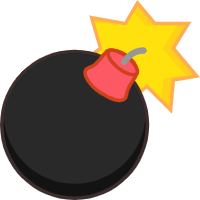
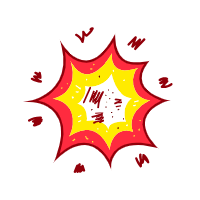
更新图标

diff --git a/index.html b/index.html
@@ -114,6 +114,16 @@
             color: #ffd700;
             margin-bottom: 10px;
             font-size: 24px;
+            display: flex;
+            align-items: center;
+            justify-content: center;
+            gap: 10px;
+        }
+
+        #link-modal .modal-content h2 img {
+            width: 28px;
+            height: 28px;
+            object-fit: contain;
         }
 
         #link-modal .modal-content p {
@@ -201,8 +211,15 @@
         }
 
         #gameover-modal .gameover-content .boom-icon {
-            font-size: 64px;
             margin-bottom: 16px;
+        }
+
+        #gameover-modal .gameover-content .boom-icon img {
+            width: 64px;
+            height: 64px;
+            object-fit: contain;
+            display: block;
+            margin: 0 auto;
         }
 
         #gameover-modal .gameover-content h2 {
@@ -263,7 +280,7 @@
     </div>
     <div id="gameover-modal">
         <div class="gameover-content">
-            <div class="boom-icon">💥</div>
+            <div class="boom-icon"><img src="icon/boom.png" alt="爆炸图标" width="256" height="256"></div>
             <h2>游戏结束!</h2>
             <p>你抓到了炸弹...</p>
             <div class="final-score">最终得分: <span id="gameover-score">0</span></div>
@@ -281,11 +298,11 @@
 
         // 可抓取的物品 - 每个物品对应一个链接
         const LINK_ITEMS = [
-            { type: 'GitHub', label: 'GitHub', url: 'https://github.com/Zebra1111', iconSrc: 'icon/github.png', size: 50, value: 300, desc: '我的 GitHub 主页' },
+            { type: 'GitHub', label: 'GitHub', url: 'https://github.com/Zebra1111', iconSrc: 'icon/github.png', size: 40, value: 300, desc: '我的 GitHub 主页' },
             { type: 'Blog', label: '博客', url: 'blog.html', iconSrc: 'icon/blog.png', size: 40, value: 200, desc: '我的技术博客' },
-            { type: 'Project', label: '项目展示', url: 'https://github.com/Zebra1111?tab=repositories', iconSrc: 'icon/project.png', size: 35, value: 500, desc: '查看我的开源项目' },
-            { type: 'LeetCode', label: 'LeetCode', url: 'https://leetcode.cn/progress/', iconSrc: 'icon/leetcode.png', size: 30, value: 400, desc: '力扣刷题记录' },
-            { type: 'Acwing', label: 'Acwing', url: 'https://www.acwing.com/user/myspace/index/144768/', iconSrc: 'icon/acwing.png', size: 30, value: 400, desc: 'Acwing 刷题空间' },
+            { type: 'Project', label: '项目展示', url: 'https://github.com/Zebra1111?tab=repositories', iconSrc: 'icon/project.png', size: 40, value: 500, desc: '查看我的开源项目' },
+            { type: 'LeetCode', label: 'LeetCode', url: 'https://leetcode.cn/progress/', iconSrc: 'icon/leetcode.png', size: 40, value: 400, desc: '力扣刷题记录' },
+            { type: 'Acwing', label: 'Acwing', url: 'https://www.acwing.com/user/myspace/index/144768/', iconSrc: 'icon/acwing.png', size: 40, value: 400, desc: 'Acwing 刷题空间' },
         ];
 
         // 随机数量的黄金、石头、炸弹
@@ -318,7 +335,7 @@
             });
         }
         // 预加载所有 icon 图片
-        const imageSources = ['icon/gold.png', 'icon/silver.png', 'icon/stone.png', 'icon/bomb.png', 'icon/github.png', 'icon/blog.png', 'icon/project.png', 'icon/leetcode.png', 'icon/acwing.png'];
+        const imageSources = ['icon/gold.png', 'icon/silver.png', 'icon/stone.png', 'icon/bomb.png', 'icon/github.png', 'icon/blog.png', 'icon/project.png', 'icon/leetcode.png', 'icon/acwing.png', 'icon/bomb.png'];
         Promise.all(imageSources.map(preloadImage));
 
         // ============ 游戏状态 ============
@@ -607,7 +624,7 @@
                 ctx.font = `${item.size}px serif`;
                 ctx.textAlign = 'center';
                 ctx.textBaseline = 'middle';
-                ctx.fillText(item.icon, 0, 0);
+                ctx.fillText(item.iconSrc, 0, 0);
             }
 
             // 标签
@@ -780,7 +797,20 @@
         // ============ 链接弹窗 ============
         function showLinkModal(item) {
             const modal = document.getElementById('link-modal');
-            document.getElementById('modal-title').textContent = `${item.icon} ${item.label} (+$${item.value})`;
+            const modalTitle = document.getElementById('modal-title');
+            modalTitle.innerHTML = '';
+
+            if (item.iconSrc) {
+                const iconImg = document.createElement('img');
+                iconImg.src = item.iconSrc;
+                iconImg.alt = item.label;
+                modalTitle.appendChild(iconImg);
+            }
+
+            const titleText = document.createElement('span');
+            titleText.textContent = `${item.label} (+$${item.value})`;
+            modalTitle.appendChild(titleText);
+
             document.getElementById('modal-desc').textContent = item.desc;
 
             const openBtn = document.getElementById('modal-open');
